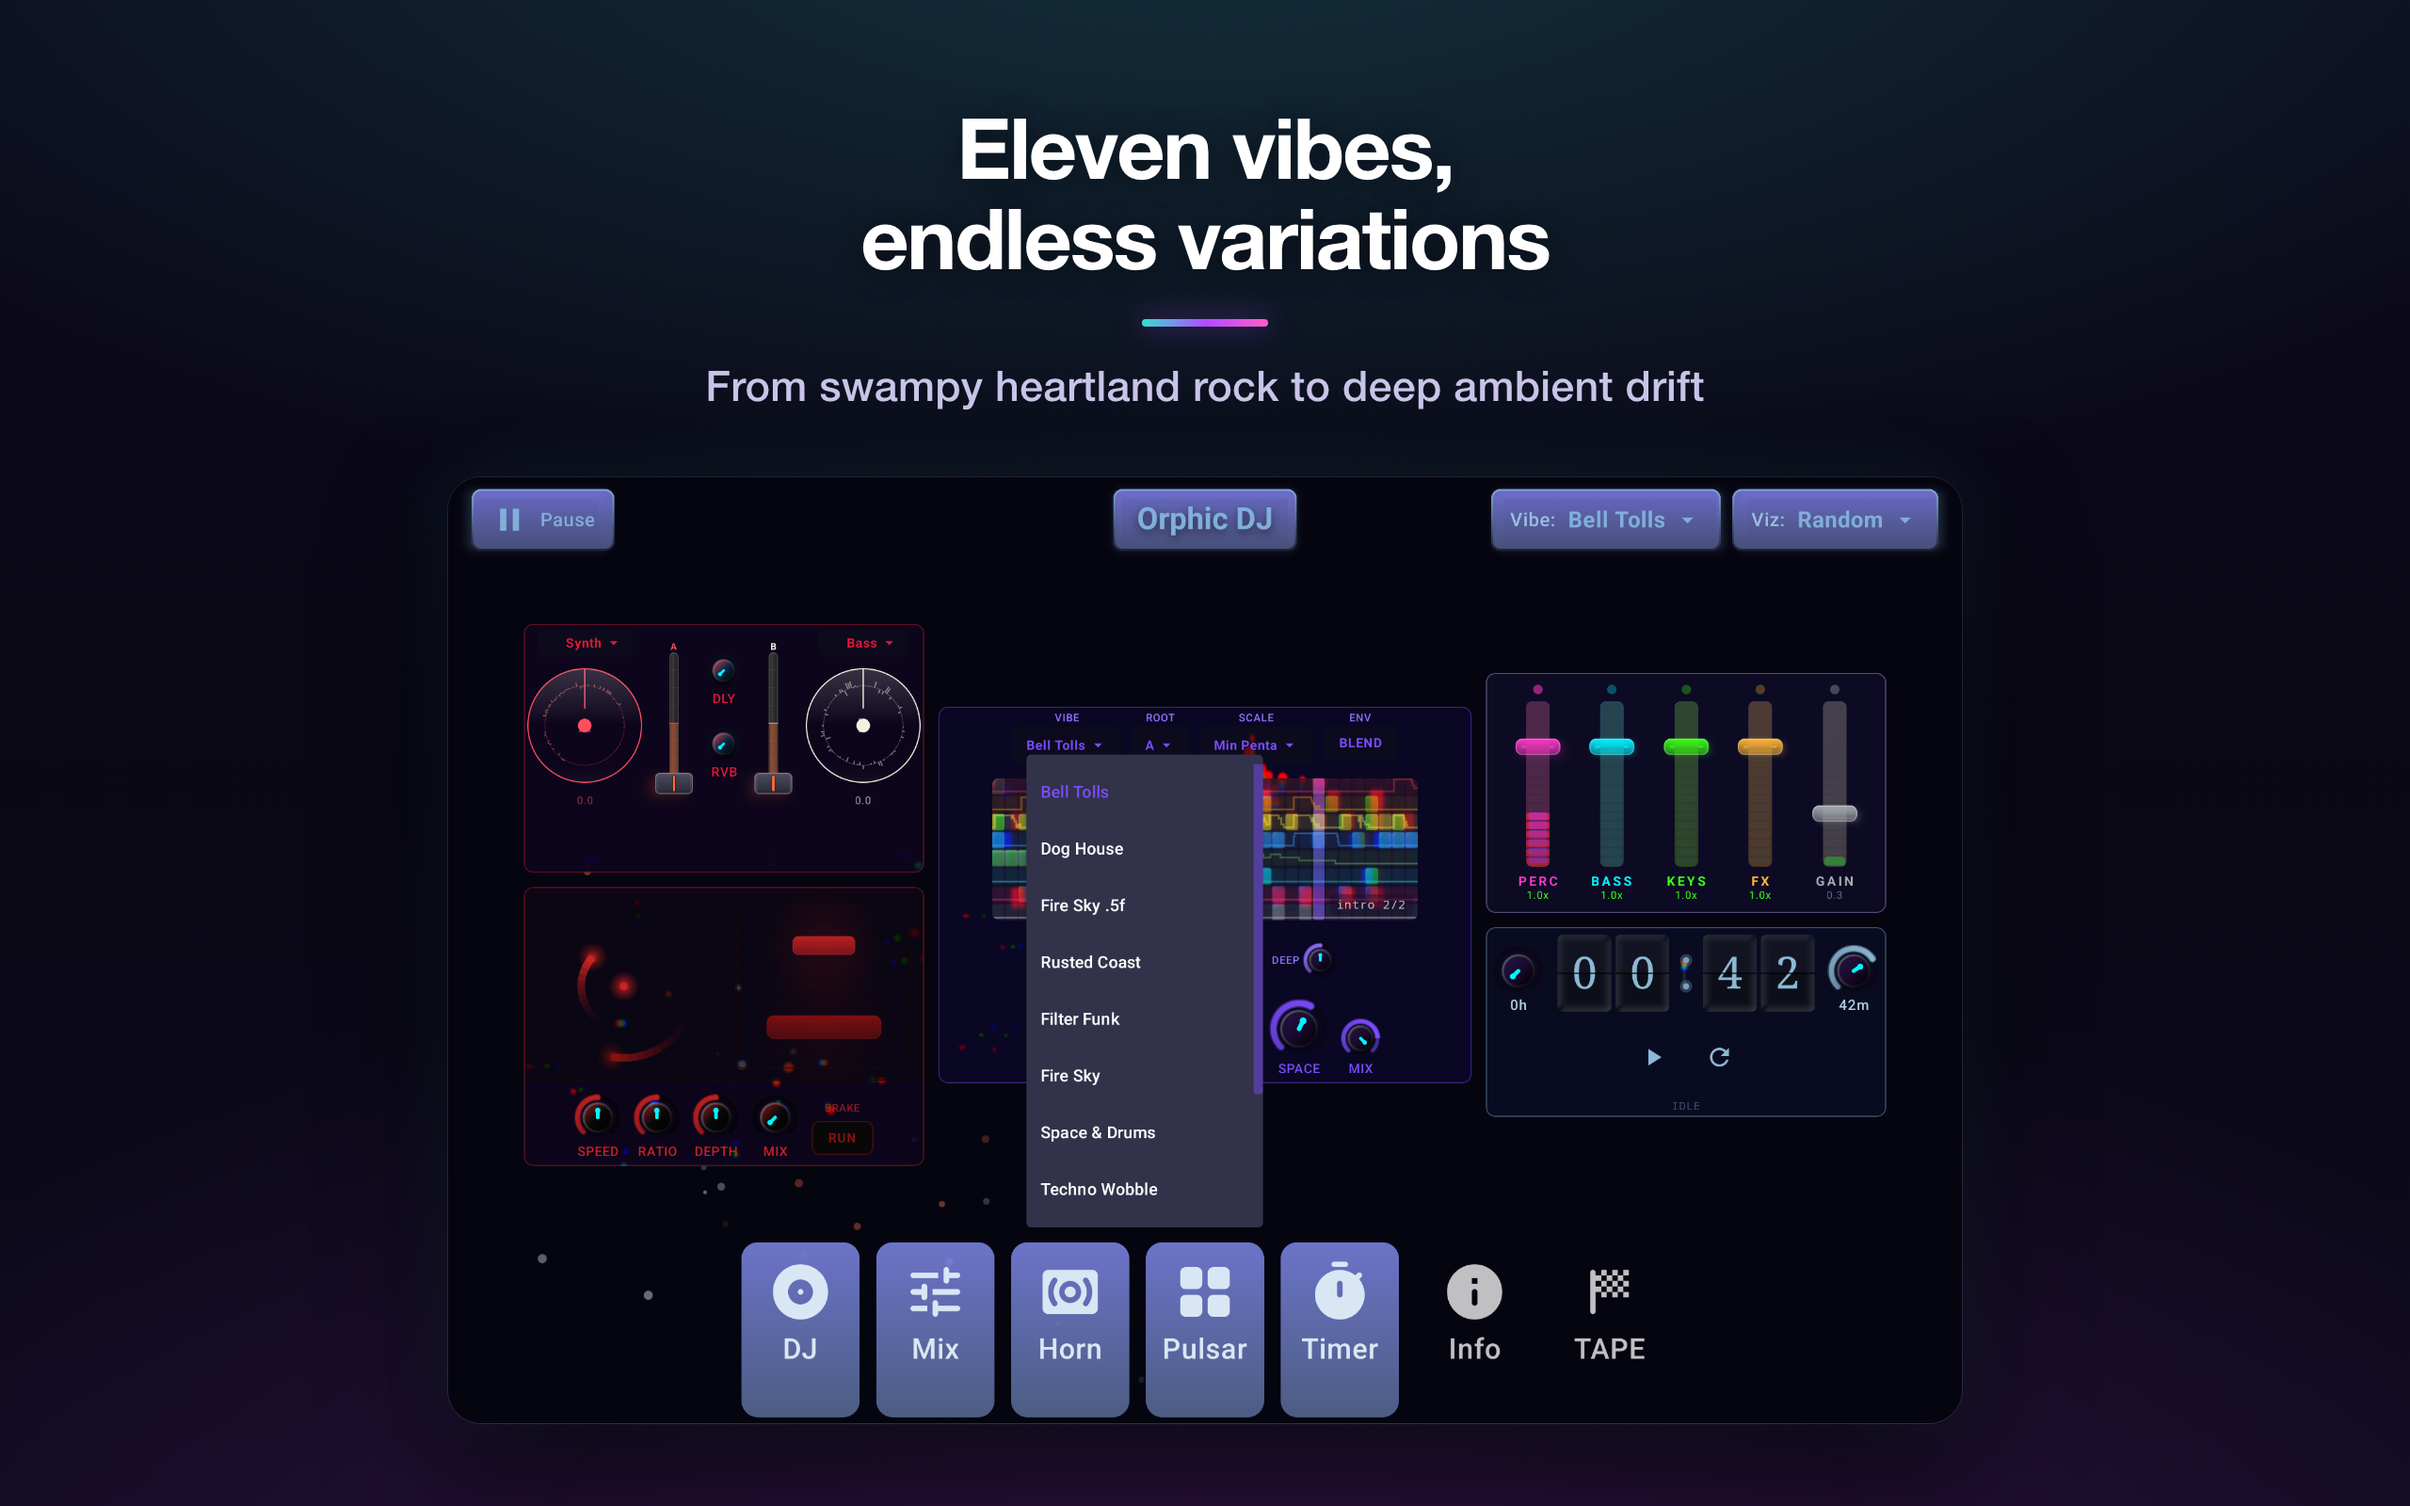
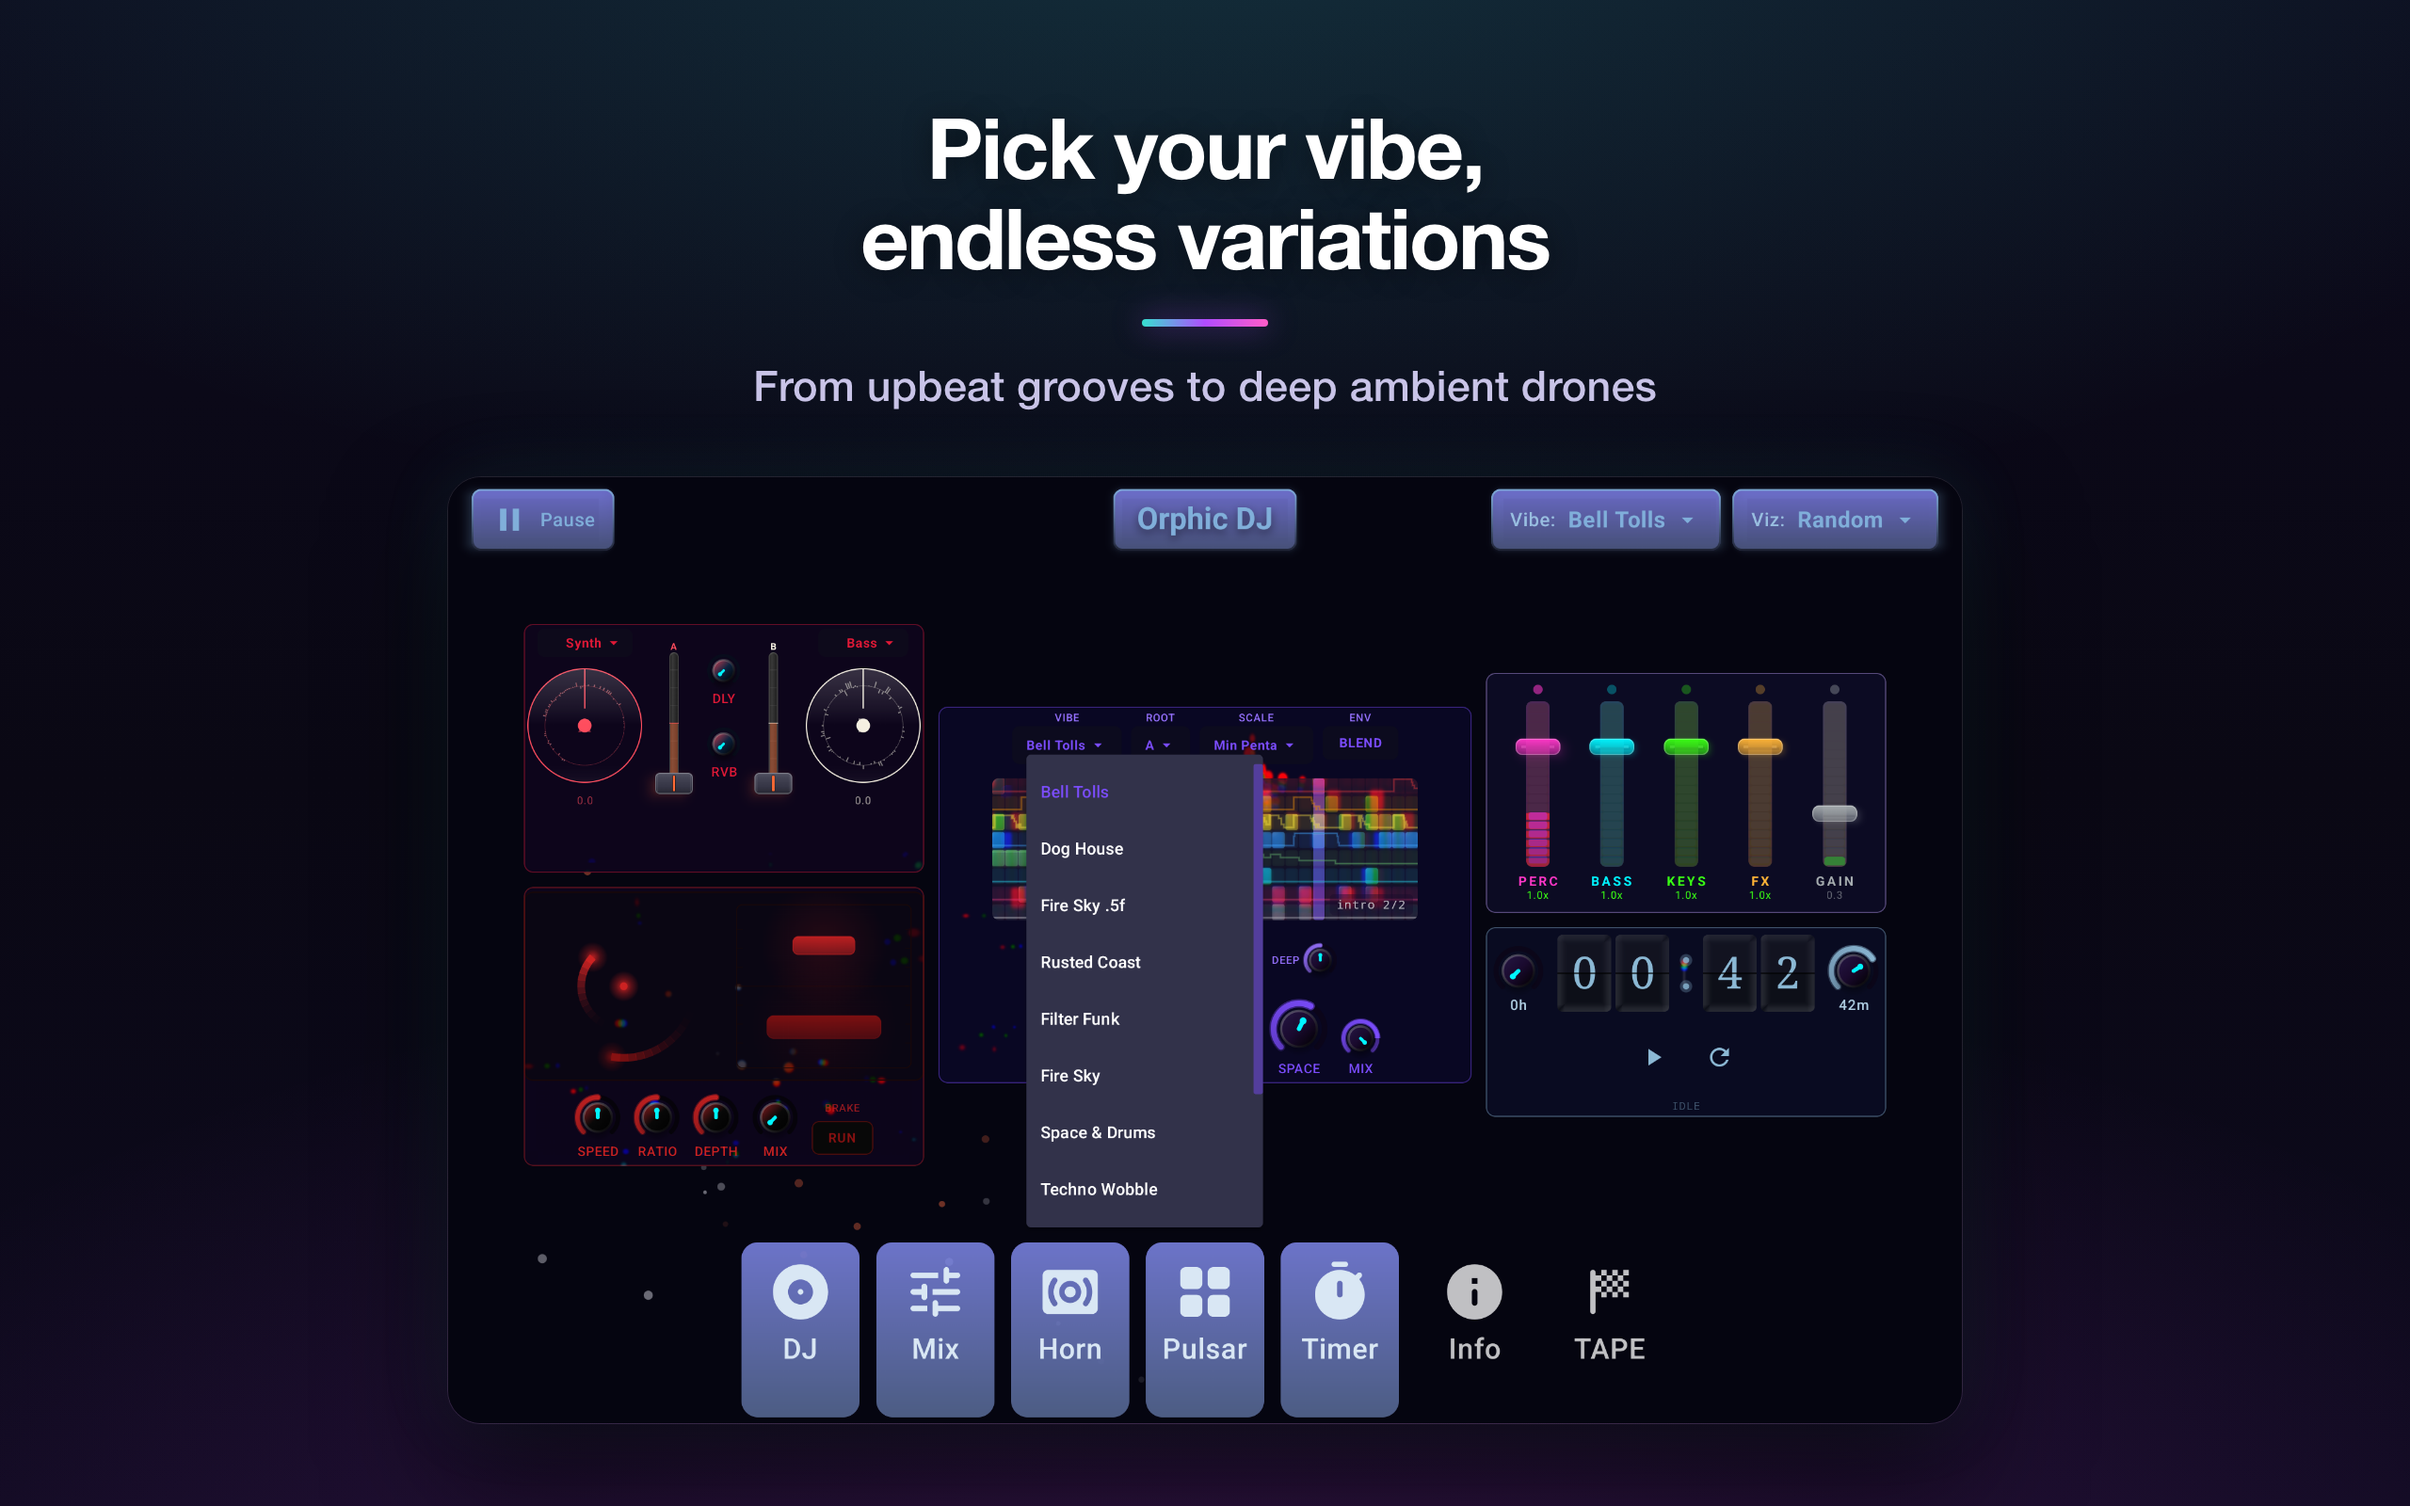
docs(djapp): reuse the phone taglines on the large-screen frames
The tablet and iPad frames had their own headlines, which meant the listing
pitched the same screens differently depending on which device a viewer was
browsing from. They now carry frame.html's copy verbatim, so "Four knobs. You
conduct." and "Ride the mix, live" say the same thing everywhere. Drops the
placeholder third entry, which pointed at a screenshot that was never taken.

Changed region(s): [[0.2812, 0.25, 0.7188, 0.2812], [0.375, 0.0625, 0.625, 0.125]]

diff --git a/apps/djapp/play-store/assets/framed/frame-large.html b/apps/djapp/play-store/assets/framed/frame-large.html
@@ -109,33 +109,32 @@
   <script>
     // Each entry produces one landscape large-screen frame. Render with e.g.
     //   --window-size=2560,1600 (tablet) or --window-size=2752,2064 (iPad 13").
+    // Headlines and subheads are the phone frames' verbatim, from frame.html — the listing says
+    // the same things about the same screens whatever the device, so a large-screen shot is not
+    // pitching the app differently from the phone one beside it.
     const FRAMES = [
+      // 0-1: Android tablet (2560x1600).
       {
         img: "../screenshots/large-01-dock.png",
-        headline: "The whole rig,\non one screen",
-        subhead: "Deck, mixer, macros and timer — no tabbing, no hunting",
+        headline: "Four knobs.\nYou conduct.",
+        subhead: "Energy · Complexity · Mood · Space",
       },
       {
         img: "../screenshots/large-02-catalog.png",
-        headline: "Eleven vibes,\nendless variations",
-        subhead: "From swampy heartland rock to deep ambient drift",
+        headline: "Pick your vibe,\nendless variations",
+        subhead: "From upbeat grooves to deep ambient drones",
       },
-      {
-        img: "../screenshots/large-03-storm.png",
-        headline: "Songs with weather",
-        subhead: "Rain, thunder that rolls past, lightning that cracks",
-      },
-      // 3-4: iPad 13" landscape (2752x2064). Deliberately a different vibe and visualization
+      // 2-3: iPad 13" landscape (2752x2064). Deliberately a different vibe and visualization
       // from each other, so the pair does not read as one screen shot twice.
       {
         img: "../screenshots/ipad-01-dock.png",
-        headline: "The whole rig,\non one screen",
-        subhead: "Deck, macros and timer side by side — nothing buried in a tab",
+        headline: "Four knobs.\nYou conduct.",
+        subhead: "Energy · Complexity · Mood · Space",
       },
       {
         img: "../screenshots/ipad-02-mix.png",
-        headline: "See every part,\nride every level",
-        subhead: "Eight generative tracks, mixed live while the song rearranges itself",
+        headline: "Ride the mix, live",
+        subhead: "Balance every track in real time",
       },
     ];
 

diff --git a/docs/releases/v2.0.3-store-assets.md b/docs/releases/v2.0.3-store-assets.md
@@ -16,11 +16,18 @@ Device support for both form factors already ships in the binary. What was missi
 | Feature graphic (1024x500) | `play/listings/en-US/graphics/feature-graphic/` | ✅ present |
 | Phone screenshots (1080x1920 x7) | `play/listings/en-US/graphics/phone-screenshots/` | ✅ present |
 | In-app TV launcher banner (640x360) | `androidApp/src/main/res/drawable-nodpi/tv_banner.png` | ✅ present — **not** the store asset |
-| Store TV banner | `play/listings/en-US/graphics/tv-banner/` | ❌ needs 1280x720 |
-| TV screenshots | `play/listings/en-US/graphics/tv-screenshots/` | ❌ needs 16:9 |
-| 7-inch tablet screenshots | `play/listings/en-US/graphics/seven-inch-screenshots/` | ❌ empty |
-| 10-inch tablet screenshots | `play/listings/en-US/graphics/ten-inch-screenshots/` | ❌ empty |
-| iPad 13" screenshots | App Store Connect (not in repo) | ❌ none |
+| Store TV banner | `play/listings/en-US/graphics/tv-banner/` | ✅ 1280x720, rendered from `framed/tv-banner.html` |
+| TV screenshots | `play/listings/en-US/graphics/tv-screenshots/` | ✅ 2x raw 3840x2160 |
+| 7-inch tablet screenshots | `play/listings/en-US/graphics/seven-inch-screenshots/` | ✅ 2x framed 2560x1600 |
+| 10-inch tablet screenshots | `play/listings/en-US/graphics/ten-inch-screenshots/` | ✅ 2x framed 2560x1600 |
+| iPad 13" screenshots | `play-store/assets/appstore/ipad-13/` | ✅ 2x framed 2752x2064 landscape |
+
+Every Play asset is RGB with no alpha channel, which Play requires and `simctl`/`screencap`
+captures do not give you — `magick … -alpha remove -alpha off` is the step that matters.
+
+**iPad shots are landscape, deliberately.** At 1376dp the dock lays out as designed; portrait's
+1032dp leaves the panels clustered in the middle third. The portrait redesign is deferred, and
+the top-bar overlap that portrait exposed is fixed separately in `DjTvTopBar`.
 
 The two TV captures in `docs/screenshots/djapp/` (`tv-dock-og.webp`, `tv-timer-og.webp`) are
 3024x1898 — a desktop window grab, roughly 16:10. They are README material and **cannot** be used
